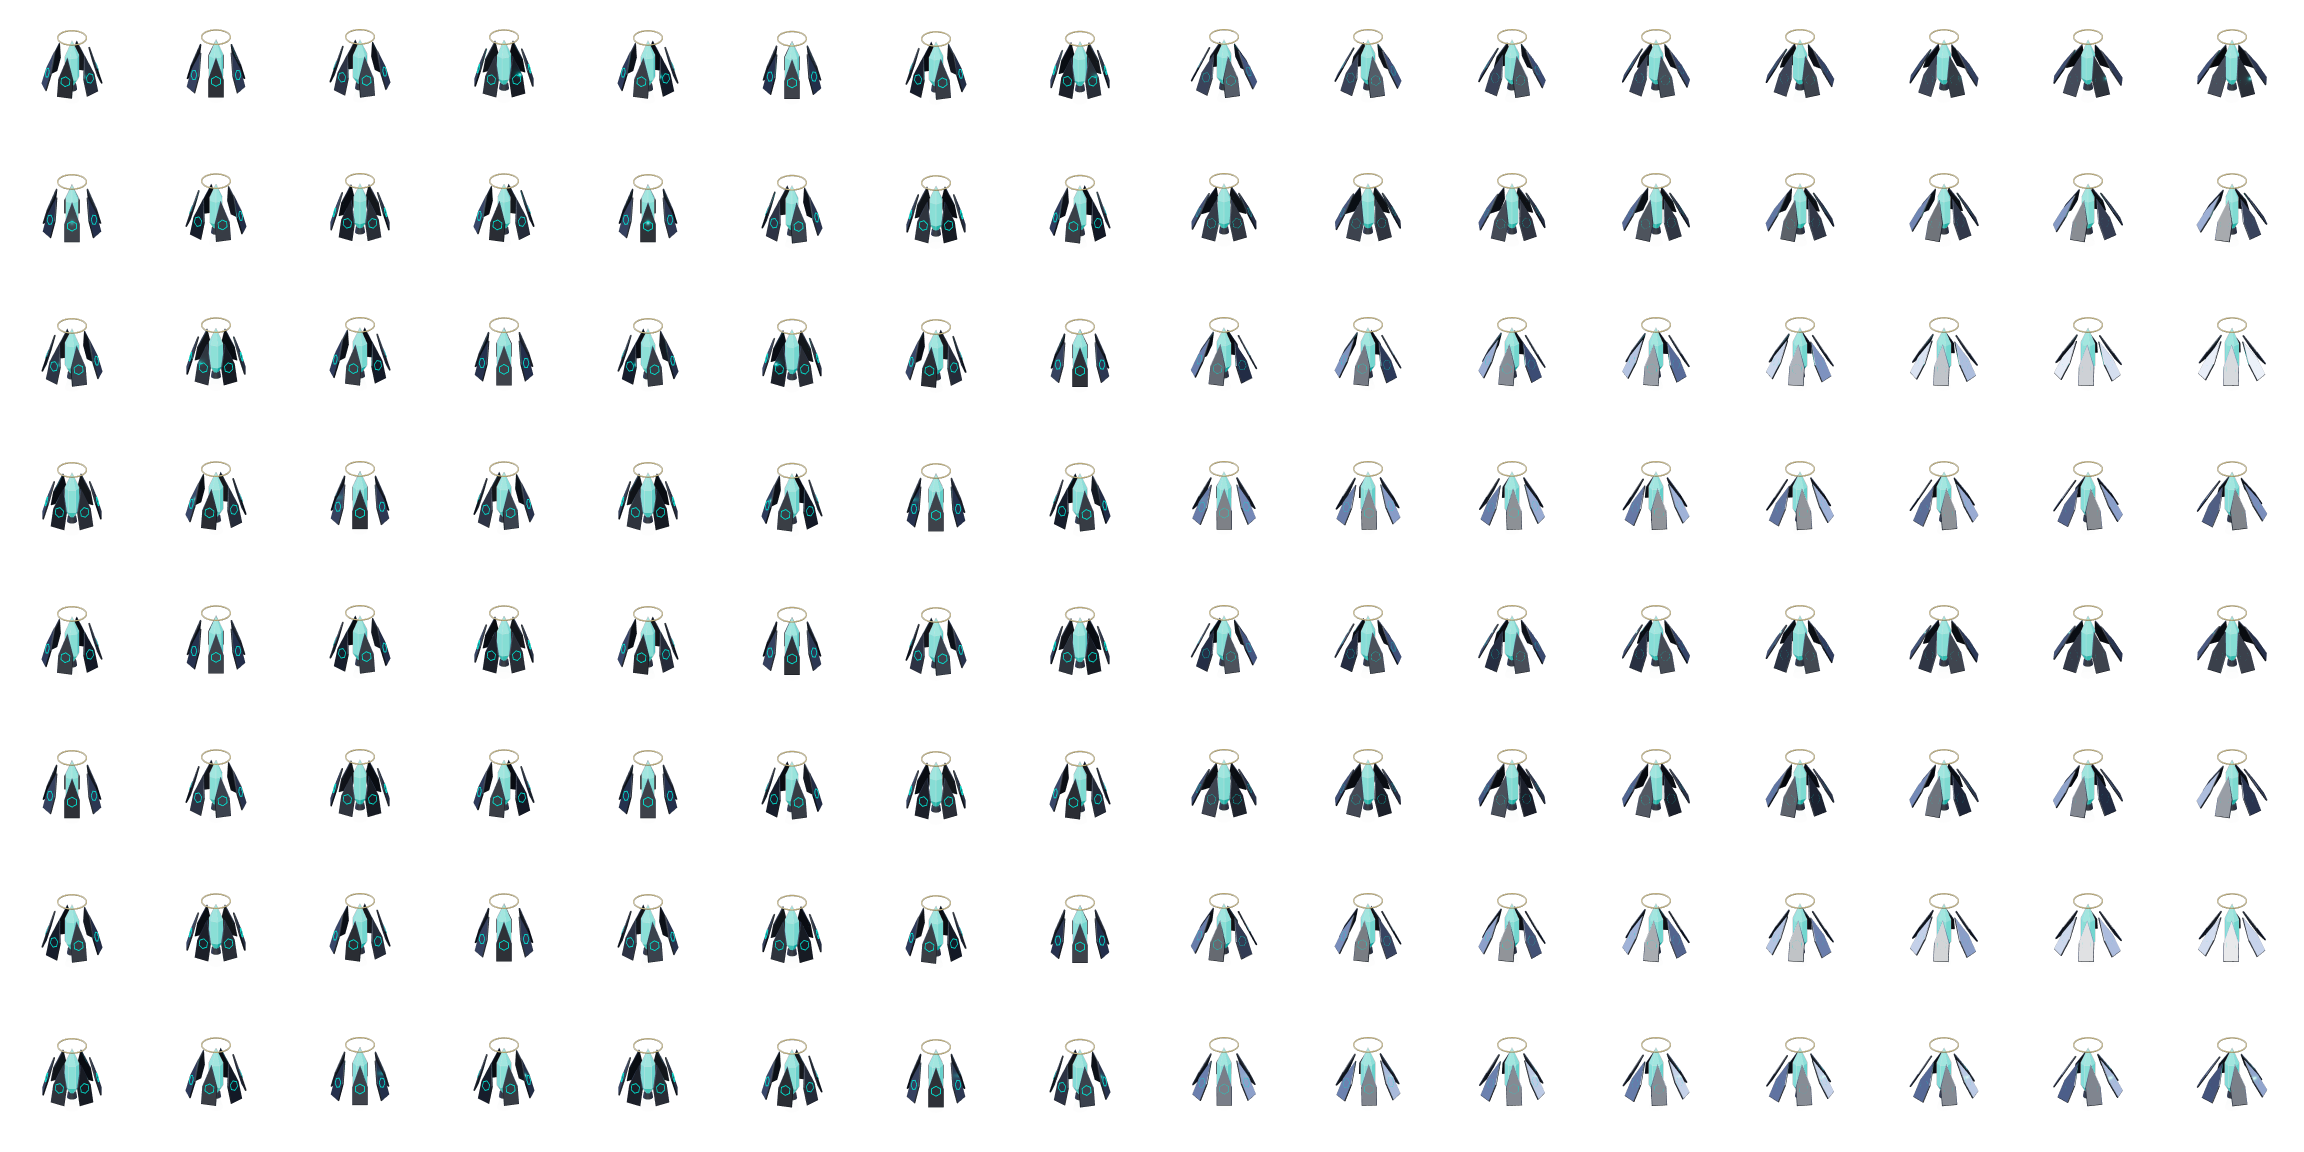
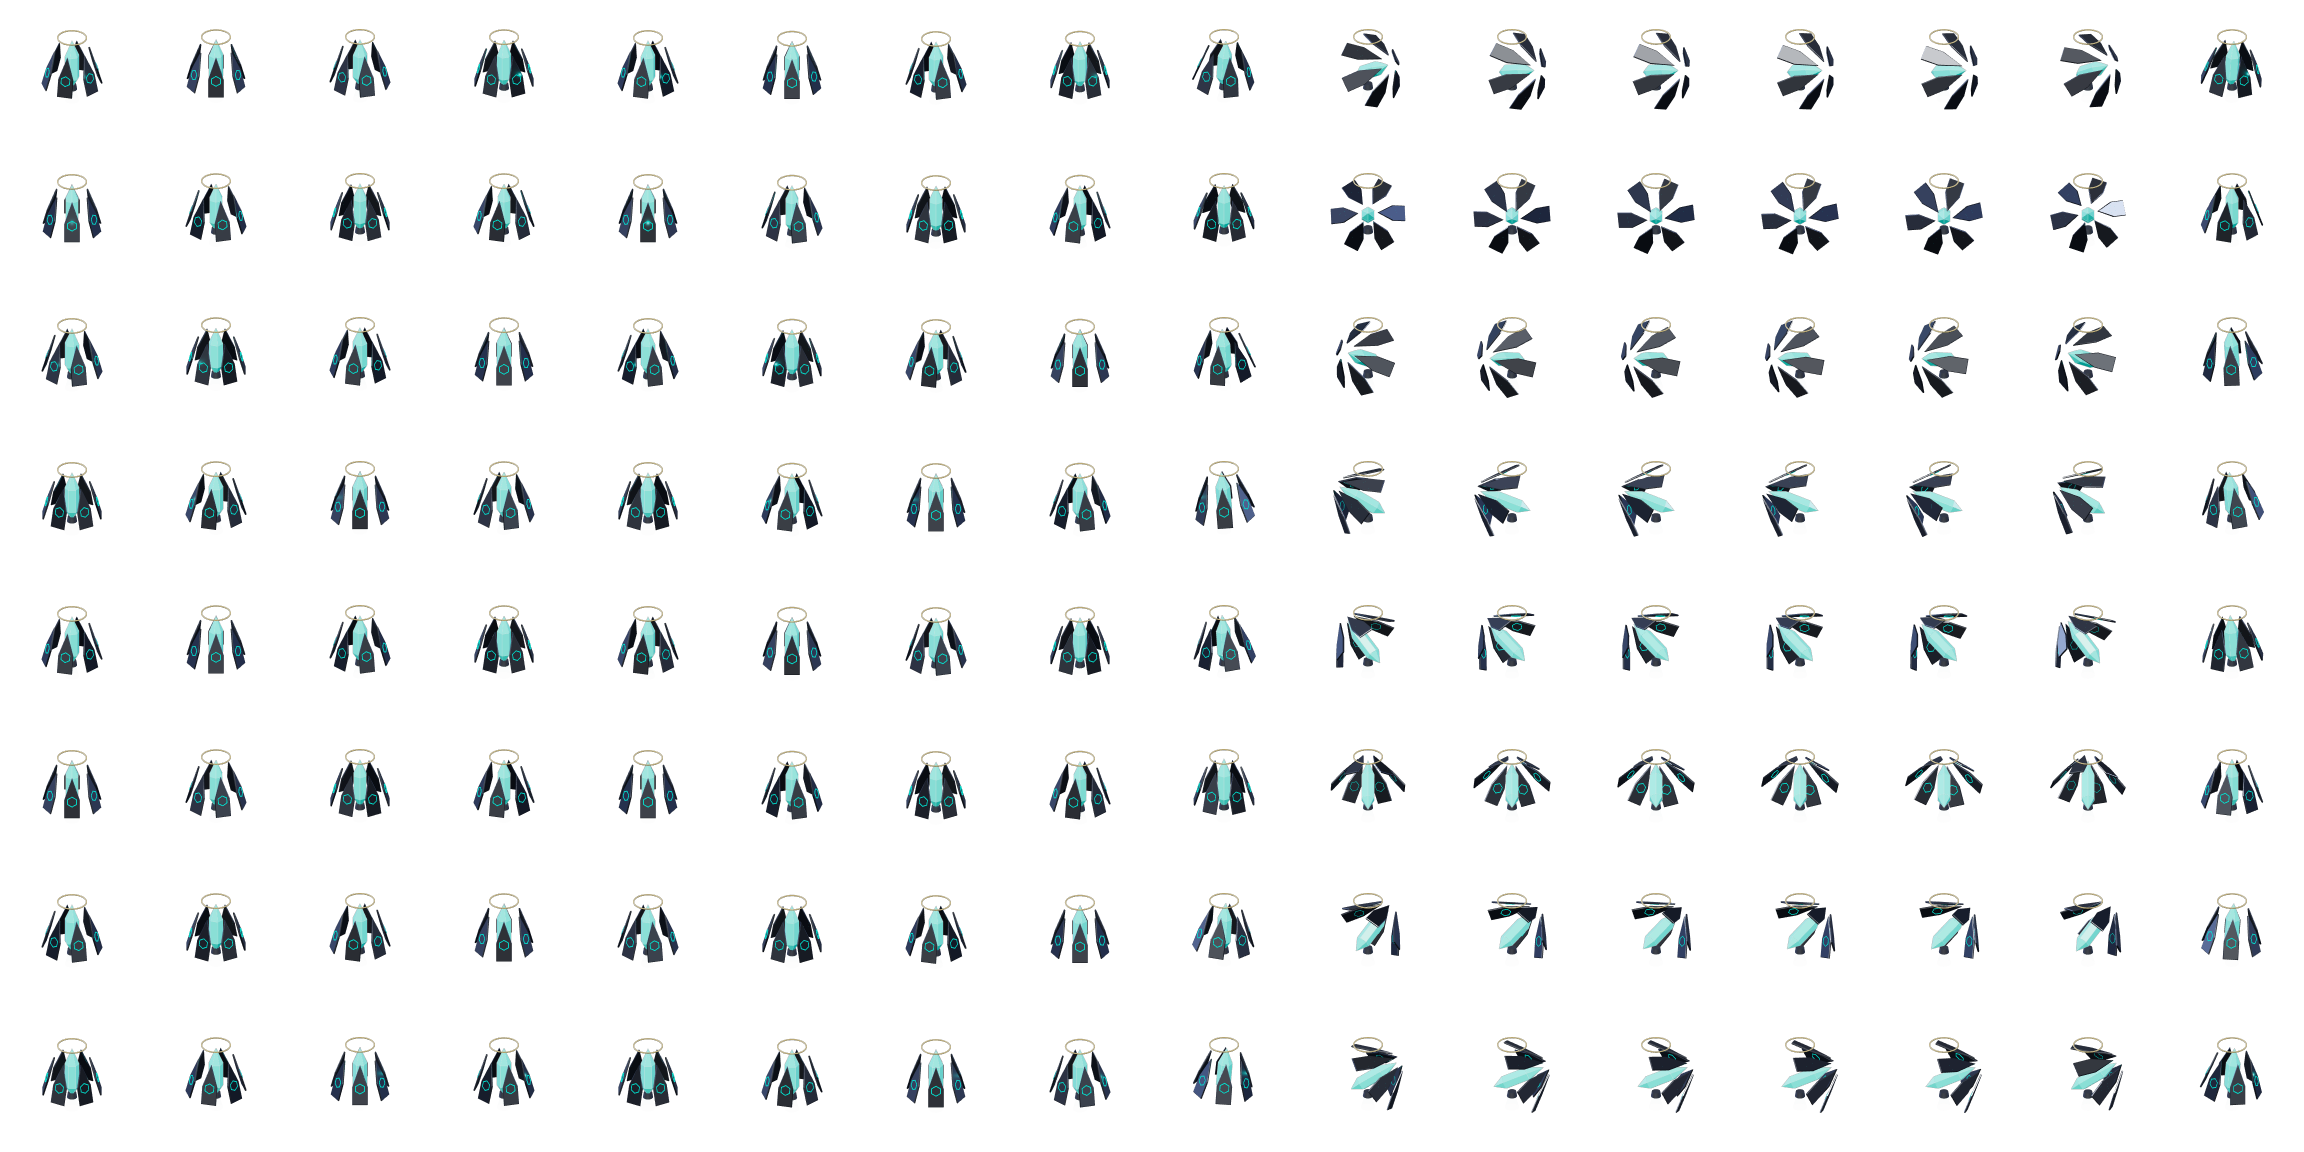
Petal Aegis casts like a flower turning to its sun
The bloom tilts forward and the petals slide out along the stem and flare as it casts, then settle (the
action frames are a pulse: bake.js job.pulse). The sprite already faces its target. Build 2026-10-15b.

Claude-Session: https://claude.ai/code/session_0115DZYYhipQqSk6LHvQcEfz

diff --git a/game.html b/game.html
@@ -1363,12 +1363,12 @@ function _showError(msg) {
 // Script files that failed to download. A missing file raises no error of its
 // own — only the "Can't find variable" from whatever needed it — so the load
 // failure is caught here, on its way down (capture phase).
-// THE BUILD. Every script URL below carries ?v=2026-10-15a, so a new deploy
+// THE BUILD. Every script URL below carries ?v=2026-10-15b, so a new deploy
 // fetches a matching set: REPORTED, an iPad ran the new js/indexart.js against
 // an old cached js/config.js ("Attempted to assign to readonly property").
 // Change this, the ?v= on every script tag and BUILD_VERSION in js/config.js
 // together (tests/boot.js checks they agree).
-window.__PAGE_BUILD = "2026-10-15a";
+window.__PAGE_BUILD = "2026-10-15b";
 window.__bootFailed = [];
 window.addEventListener("error", function (e) {
     var t = e && e.target;
@@ -1404,53 +1404,53 @@ if (!CanvasRenderingContext2D.prototype.roundRect) {
 </script>
 
 <!-- Game scripts — load order matters (globals first, logic last) -->
-<script src="js/config.js?v=2026-10-15a"></script>
-<script src="js/icons.js?v=2026-10-15a"></script>
-<script src="js/rng.js?v=2026-10-15a"></script>
-<script src="js/traits.js?v=2026-10-15a"></script>
-<script src="js/elements.js?v=2026-10-15a"></script>
-<script src="js/combat.js?v=2026-10-15a"></script>
-<script src="js/species.js?v=2026-10-15a"></script>
-<script src="js/levels.js?v=2026-10-15a"></script>
-<script src="js/predator_randomizer.js?v=2026-10-15a"></script>
-<script src="js/mass.js?v=2026-10-15a"></script>
-<script src="js/infest.js?v=2026-10-15a"></script>
-<script src="js/power.js?v=2026-10-15a"></script>
-<script src="js/save.js?v=2026-10-15a"></script>
-<script src="js/camp.js?v=2026-10-15a"></script>
-<script src="js/wavedata.js?v=2026-10-15a"></script>
-<script src="js/helpers.js?v=2026-10-15a"></script>
-<script src="js/predator.js?v=2026-10-15a"></script>
-<script src="js/abilities.js?v=2026-10-15a"></script>
-<script src="js/world.js?v=2026-10-15a"></script>
-<script src="js/commands.js?v=2026-10-15a"></script>
-<script src="js/npc.js?v=2026-10-15a"></script>
-<script src="js/codex.js?v=2026-10-15a"></script>
-<script src="js/draw.js?v=2026-10-15a"></script>
-<script src="js/beetle3d.js?v=2026-10-15a"></script>
-<script src="js/bugs3d.js?v=2026-10-15a"></script>
-<script src="js/ui.js?v=2026-10-15a"></script>
-<script src="js/waves.js?v=2026-10-15a"></script>
-<script src="js/drops.js?v=2026-10-15a"></script>
-<script src="js/clone.js?v=2026-10-15a"></script>
-<script src="js/clonework.js?v=2026-10-15a"></script>
-<script src="js/broods.js?v=2026-10-15a"></script>
-<script src="js/raids.js?v=2026-10-15a"></script>
-<script src="js/ultra.js?v=2026-10-15a"></script>
-<script src="js/formations.js?v=2026-10-15a"></script>
-<script src="js/breakout.js?v=2026-10-15a"></script>
-<script src="js/nightraids.js?v=2026-10-15a"></script>
-<script src="js/bonds.js?v=2026-10-15a"></script>
-<script src="js/autoplay.js?v=2026-10-15a"></script>
-<script src="js/indexart.js?v=2026-10-15a"></script>
-<script src="js/modules.js?v=2026-10-15a"></script>
-<script src="js/shieldcells.js?v=2026-10-15a"></script>
-<script src="js/evolution.js?v=2026-10-15a"></script>
-<script src="js/buildmenu.js?v=2026-10-15a"></script>
-<script src="js/input.js?v=2026-10-15a"></script>
-<script src="js/game.js?v=2026-10-15a"></script>
-<script src="js/tutorial.js?v=2026-10-15a"></script>
-<script src="js/dev.js?v=2026-10-15a"></script>
+<script src="js/config.js?v=2026-10-15b"></script>
+<script src="js/icons.js?v=2026-10-15b"></script>
+<script src="js/rng.js?v=2026-10-15b"></script>
+<script src="js/traits.js?v=2026-10-15b"></script>
+<script src="js/elements.js?v=2026-10-15b"></script>
+<script src="js/combat.js?v=2026-10-15b"></script>
+<script src="js/species.js?v=2026-10-15b"></script>
+<script src="js/levels.js?v=2026-10-15b"></script>
+<script src="js/predator_randomizer.js?v=2026-10-15b"></script>
+<script src="js/mass.js?v=2026-10-15b"></script>
+<script src="js/infest.js?v=2026-10-15b"></script>
+<script src="js/power.js?v=2026-10-15b"></script>
+<script src="js/save.js?v=2026-10-15b"></script>
+<script src="js/camp.js?v=2026-10-15b"></script>
+<script src="js/wavedata.js?v=2026-10-15b"></script>
+<script src="js/helpers.js?v=2026-10-15b"></script>
+<script src="js/predator.js?v=2026-10-15b"></script>
+<script src="js/abilities.js?v=2026-10-15b"></script>
+<script src="js/world.js?v=2026-10-15b"></script>
+<script src="js/commands.js?v=2026-10-15b"></script>
+<script src="js/npc.js?v=2026-10-15b"></script>
+<script src="js/codex.js?v=2026-10-15b"></script>
+<script src="js/draw.js?v=2026-10-15b"></script>
+<script src="js/beetle3d.js?v=2026-10-15b"></script>
+<script src="js/bugs3d.js?v=2026-10-15b"></script>
+<script src="js/ui.js?v=2026-10-15b"></script>
+<script src="js/waves.js?v=2026-10-15b"></script>
+<script src="js/drops.js?v=2026-10-15b"></script>
+<script src="js/clone.js?v=2026-10-15b"></script>
+<script src="js/clonework.js?v=2026-10-15b"></script>
+<script src="js/broods.js?v=2026-10-15b"></script>
+<script src="js/raids.js?v=2026-10-15b"></script>
+<script src="js/ultra.js?v=2026-10-15b"></script>
+<script src="js/formations.js?v=2026-10-15b"></script>
+<script src="js/breakout.js?v=2026-10-15b"></script>
+<script src="js/nightraids.js?v=2026-10-15b"></script>
+<script src="js/bonds.js?v=2026-10-15b"></script>
+<script src="js/autoplay.js?v=2026-10-15b"></script>
+<script src="js/indexart.js?v=2026-10-15b"></script>
+<script src="js/modules.js?v=2026-10-15b"></script>
+<script src="js/shieldcells.js?v=2026-10-15b"></script>
+<script src="js/evolution.js?v=2026-10-15b"></script>
+<script src="js/buildmenu.js?v=2026-10-15b"></script>
+<script src="js/input.js?v=2026-10-15b"></script>
+<script src="js/game.js?v=2026-10-15b"></script>
+<script src="js/tutorial.js?v=2026-10-15b"></script>
+<script src="js/dev.js?v=2026-10-15b"></script>
 <script>
 // ── BOOT CHECK ────────────────────────────────────────────
 // Every file above must have arrived and run before init.js starts the game.
@@ -1503,7 +1503,7 @@ if (!CanvasRenderingContext2D.prototype.roundRect) {
     document.body.appendChild(d);
 })();
 </script>
-<script src="js/init.js?v=2026-10-15a"></script>
+<script src="js/init.js?v=2026-10-15b"></script>
 
 </body>
 </html>

diff --git a/design/evolutions/forms7.js b/design/evolutions/forms7.js
@@ -62,15 +62,21 @@ fx(119, "Scutum turtle.", () => {   // a dome of overlapping scale plates, a cry
   return { g, core: Y + 0.5, update(t) { b.position.y = bob(t, 0, 0.025); pivot.rotation.x = -0.25 + 0.04 * Math.sin(t * 1.6); } };
 });
 fx(120, "Petal aegis.", () => {   // an angelic rosette of six plate-petals round a crystal, a halo above: the crystal is the focus of a mage
-  const g = G(), b = G(), rose = G(), petals = [], trims = []; g.add(b); const Y = 1.3;
-  const cr = hexCrystal(0.17, 0.6, 0.4, M.crystal); cr.position.y = Y; b.add(cr); const gs = glowSprite(1.1); gs.position.y = Y; b.add(gs);
-  rose.position.y = Y; b.add(rose); for (let i = 0; i < 6; i++) { const a = i * TAU / 6, pl = G(); pl.rotation.y = a; const f = kitePlate(0.34, 0.95, 0.04, i % 2 ? M.gun : M.armor); f.position.set(0, 0, 0.55); f.rotation.x = -0.28; f.rotation.z = PI; pl.add(f); const tm = hexTrim(0.12); tm.position.set(0, -0.08, 0.6); tm.rotation.x = -0.28; pl.add(tm); rose.add(pl); petals.push(f); trims.push(tm); }
+  const g = G(), b = G(), flower = G(), rose = G(), petals = [], trims = []; g.add(b); const Y = 1.3;
+  // The flower: crystal and rosette on one stem. At rest it stands upright; casting, it tilts forward (+z, towards what it
+  // is facing) and the petals fan open, a flower turning to its sun.
+  flower.position.y = Y; b.add(flower);
+  const cr = hexCrystal(0.17, 0.6, 0.4, M.crystal); flower.add(cr); const gs = glowSprite(1.1); flower.add(gs);
+  flower.add(rose); for (let i = 0; i < 6; i++) { const a = i * TAU / 6, pl = G(); pl.rotation.y = a; const f = kitePlate(0.34, 0.95, 0.04, i % 2 ? M.gun : M.armor); f.position.set(0, 0, 0.55); f.rotation.x = -0.28; f.rotation.z = PI; pl.add(f); const tm = hexTrim(0.12); tm.position.set(0, -0.08, 0.6); tm.rotation.x = -0.28; pl.add(tm); rose.add(pl); petals.push(f); trims.push(tm); }
   const h = new T.Mesh(new T.TorusGeometry(0.34, 0.016, 8, 40), M.gold); h.rotation.x = PI / 2; h.position.y = Y + 0.78; b.add(h);
   const t = thr(0.1); t.position.y = Y - 0.55; b.add(t);
   _light(b, Y, 0.8);
-  // The rosette turns 120 degrees a loop (its petals alternate two materials, so that is what closes it); casting, the petals fan open.
-  return { g, core: Y, update(t, act) { b.position.y = bob(t, 0, 0.03); rose.rotation.y = t * 1.6 / 3; h.rotation.z = t;
-    const open = -0.28 - 0.28 * (act || 0); petals.forEach(f => f.rotation.x = open); trims.forEach(m => m.rotation.x = open); } };
+  // The rosette turns 120 degrees a loop (its petals alternate two materials, so that is what closes it).
+  return { g, core: Y, update(t, act) { const a = act || 0, k = Math.max(0, Math.min(1, (a - 0.1) / 0.6)), ease = k * k * (3 - 2 * k);
+    b.position.y = bob(t, 0, 0.03); rose.rotation.y = t * 1.6 / 3; h.rotation.z = t;
+    flower.rotation.x = 1.15 * ease; flower.position.y = Y - 0.12 * ease; flower.position.z = 0.1 * ease;
+    const open = -0.28 - 0.5 * ease;   // the petals slide out along the stem past the crystal's tip and flare: an open bloom aimed at the target
+    petals.forEach(f => { f.rotation.x = open; f.position.y = 0.42 * ease; }); trims.forEach(m => { m.rotation.x = open; m.position.y = -0.08 + 0.42 * ease; }); } };
 });
 fx(121, "Reliquary shield.", () => {   // an ancient gold round shield on a floating stand, a crystal boss, the barrel from the boss
   const g = G(), b = G(); g.add(b); const Y = 1.25;

diff --git a/design/evolutions/bake.js b/design/evolutions/bake.js
@@ -24,8 +24,8 @@ const JOBS = [
   { id: 'pod',    form: 71, color: '#ffee33', idleAct: 0.2, action: [0.55, 1.0] },
   { id: 'halo',   form: 90, color: '#ff3300', idleAct: 0.1, action: [0.6, 1.0] },
   // No. 101, the toxic sniper: the pool's shift loops over the idle period; its action is the recoil of a shot.
-  // No. 120, the core mage (the role id is 'sniper'): the petals fan open in its action frames.
-  { id: 'petal', form: 120, color: '#00ccaa', idleAct: 0, action: [0.5, 1.0] },
+  // No. 120, the core mage (the role id is 'sniper'): its action frames are a pulse: the flower tilts forward and the petals fan open towards what it faces, then it settles.
+  { id: 'petal', form: 120, color: '#00ccaa', idleAct: 0, action: [0, 1.0], pulse: true },
   // No. 114, the flux brawler: a Ditto-style blob with big black shards; its action frames are the slam (it flattens and spreads).
   { id: 'mimic', form: 114, color: '#9933ff', idleAct: 0, action: [0.55, 1.0] },
   { id: 'rotshard', form: 101, color: '#14c040', idleAct: 0, action: [0.5, 1.0] },
@@ -89,7 +89,7 @@ window.__bake = async function (jobs, CELL, HALF, LOOK_Y) {
       for (let f = 0; f < 16; f++) {
         const idle = f < 8, i = f % 8;
         const t = idle ? i * P / 8 : 1.0 + i * 0.06;
-        const act = idle ? job.idleAct : job.action[0] + (job.action[1] - job.action[0]) * (i + 0.5) / 8;
+        const act = idle ? job.idleAct : job.pulse ? Math.sin(PI * (i + 0.5) / 8) : job.action[0] + (job.action[1] - job.action[0]) * (i + 0.5) / 8;   // pulse: up and back down, so the move ends where it began
         B.update(t, act);
         if (!gMeshes.length) { renderer.render(scene, cam); sg.drawImage(renderer.domElement, f * CELL, k * CELL, CELL, CELL); }
         else {

diff --git a/js/config.js b/js/config.js
@@ -4,7 +4,7 @@
 
 // The build this file belongs to — the same as window.__PAGE_BUILD and the
 // ?v= on every script tag in game.html (the boot check compares them).
-const BUILD_VERSION = "2026-10-15a";
+const BUILD_VERSION = "2026-10-15b";
 
 // ── GLOBAL ERROR DISPLAY ──────────────────────────────────
 // Lives in game.html (_showError), before any file loads. This file used to
